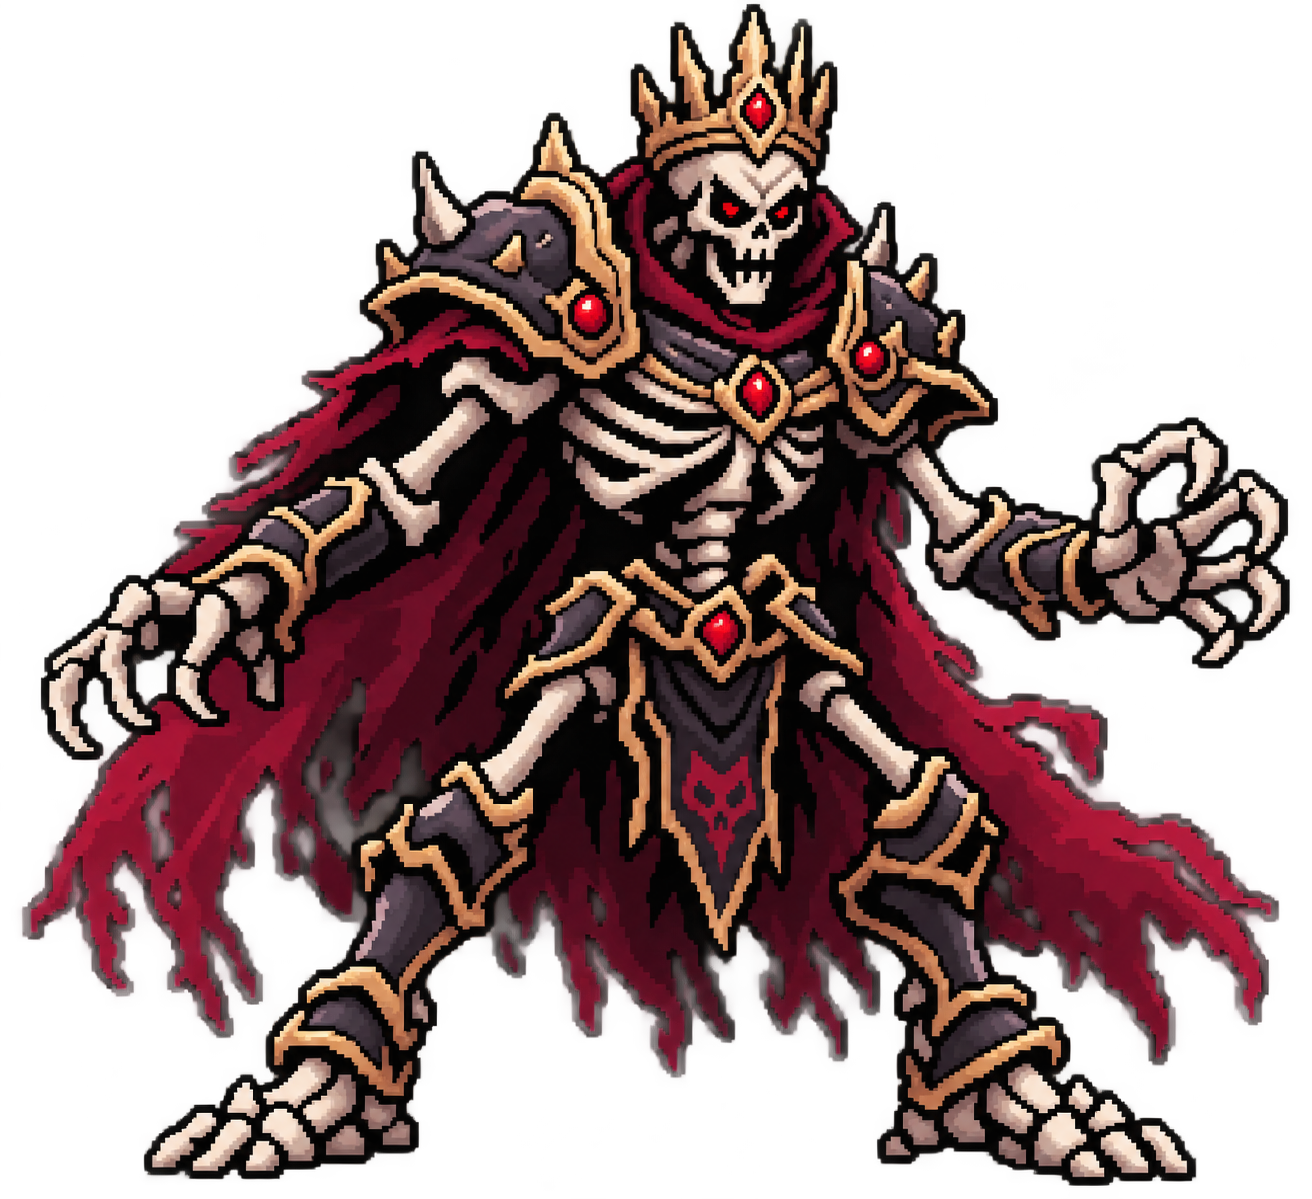
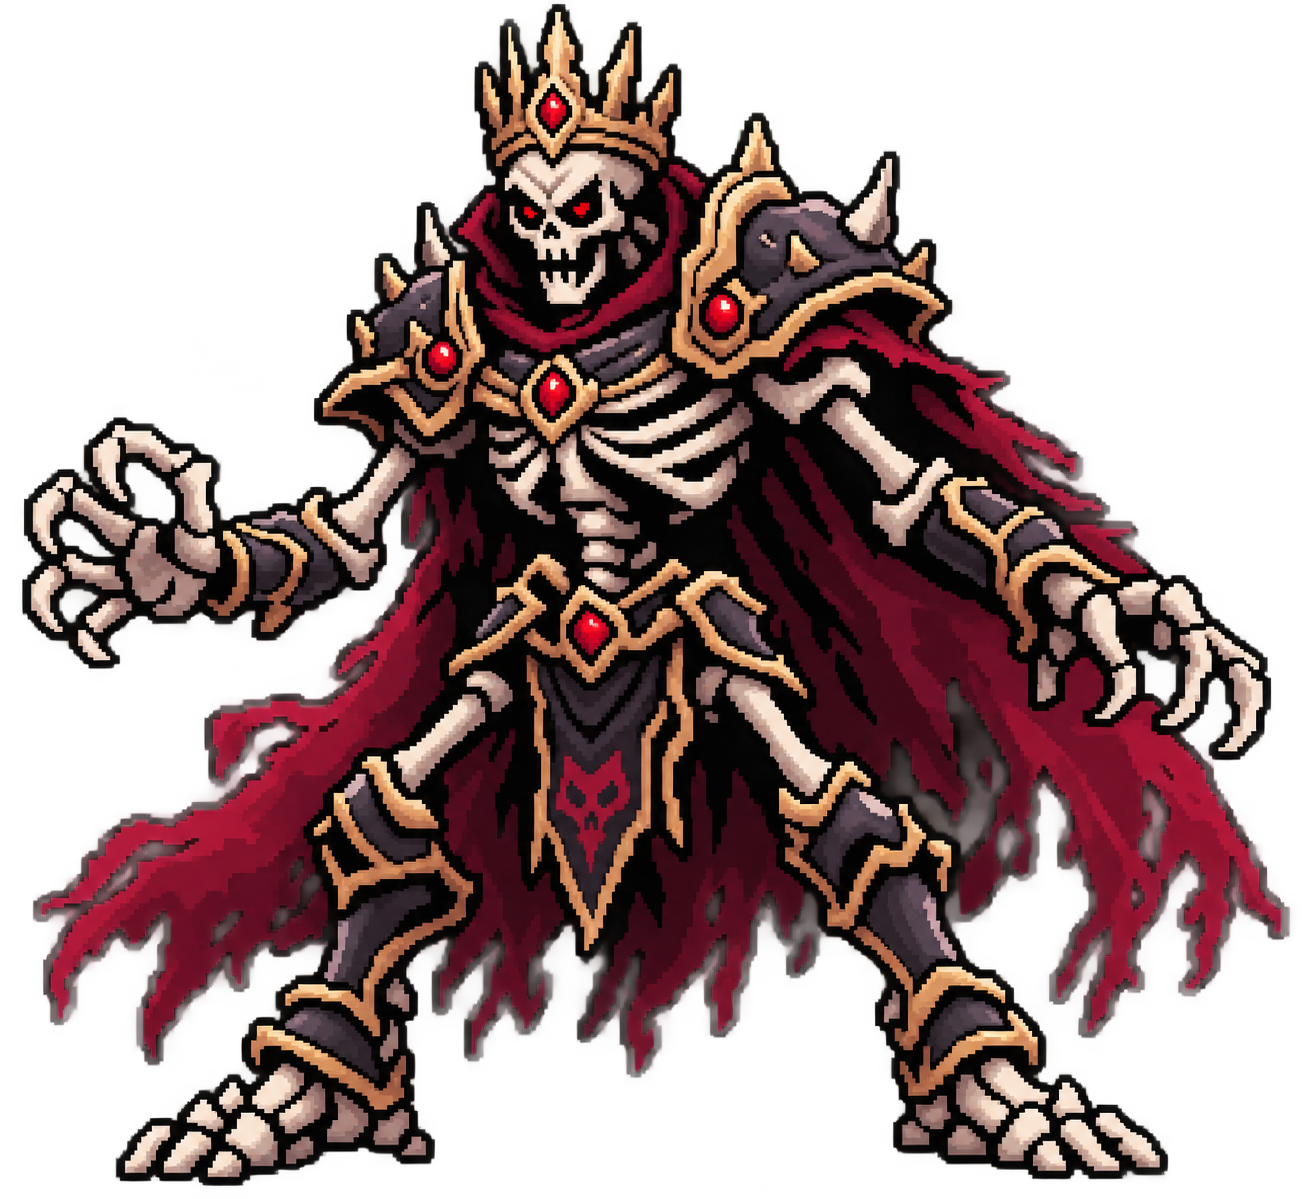
Girei as sprites e fiz um mini ajuste no menu

diff --git a/Menu.cpp b/Menu.cpp
@@ -171,7 +171,7 @@ namespace Tripulacao_Amaldicoada {
 
                 adicionarBotao(
                     "VOLTAR",
-                    VOLTAR,
+                    VOLTAR_MENU,
                     centroX - 180.f,
                     centroY + 180.f
                 );
